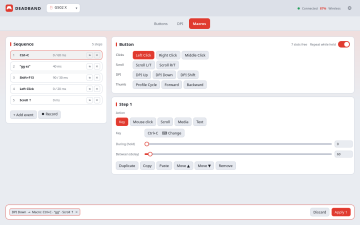
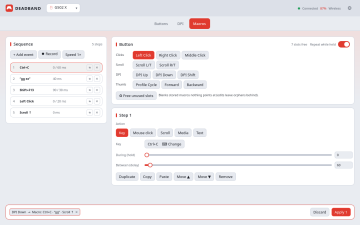
mouse: per-macro playback speed multiplier
Hardware testing found recorded macros play back slightly slower than they
were typed. Our capture is faithful -- measured milliseconds go straight into
the delay opcode with no padding or minimum -- so the extra time is the
mouse's own macro engine, which spends a little time per step (~4 steps per
typed character, so it compounds over a sentence).

Adds a per-macro speed multiplier (0.25x-4x, cycled from a pill on the Macros
tab) that divides every hold and delay at build time. Captured timings are
never modified, so it's reversible. 1.0x or absent produces a byte-identical
body, leaving existing macros alone and preserving the identical-skip path. A
nonzero wait never scales to 0 -- a hold that became an instant press+release
can go unseen by the target app. Out-of-range values are rejected at stage
time, where the editor already validates by building.

README art regenerated for the new layout.

diff --git a/qml/App/MouseMacrosPage.qml b/qml/App/MouseMacrosPage.qml
@@ -16,8 +16,17 @@ Item {
     property int btn: -1
     property var steps: []
     property bool repeat: false
+    property real speed: 1.0        // playback multiplier, higher = faster
     property int sel: -1
     property var clip: null
+
+    readonly property var speedSteps: [0.5, 0.75, 1.0, 1.25, 1.5, 2.0]
+    function speedLabel(v) { return (Math.round(v * 100) / 100) + "\u00d7" }
+    function cycleSpeed() {
+        var i = page.speedSteps.indexOf(page.speed)
+        page.speed = page.speedSteps[(i < 0 ? 2 : i + 1) % page.speedSteps.length]
+        page.touch()
+    }
 
     readonly property var clickNames: ({ 1: "Left Click", 2: "Right Click", 3: "Middle Click", 4: "Back", 5: "Forward" })
     readonly property bool committedMacro: page.btn >= 0 && mouse.bindings[String(page.btn)] === "Macro"
@@ -29,6 +38,7 @@ Item {
         var m = page.btn >= 0 ? mouse.stagedMacro(page.btn) : ({})
         page.steps = (m && m.steps) ? m.steps.map(function (s) { return Object.assign({}, s) }) : []
         page.repeat = m && m.repeat === true
+        page.speed = (m && m.speed) ? m.speed : 1.0
         page.sel = page.steps.length ? 0 : -1
     }
     Component.onCompleted: {
@@ -43,7 +53,8 @@ Item {
     function restage() {
         if (page.btn < 0) return
         if (page.steps.length)
-            mouse.stageMacro(page.btn, JSON.stringify({ steps: page.steps, repeat: page.repeat }))
+            mouse.stageMacro(page.btn, JSON.stringify({ steps: page.steps, repeat: page.repeat,
+                                                        speed: page.speed }))
         else
             mouse.unstageItem("macro:" + page.btn)
     }
@@ -209,6 +220,11 @@ Item {
                         width: parent.width; spacing: 6; bottomPadding: 2
                         PillButton { label: "+ Add event"; onClicked: page.addEvent() }
                         PillButton { label: "⏺ Record"; highlight: page.recording; onClicked: page.startRecord() }
+                        PillButton {
+                            label: "Speed " + page.speedLabel(page.speed)
+                            highlight: page.speed !== 1.0
+                            onClicked: page.cycleSpeed()
+                        }
                     }
                     Text {
                         visible: page.steps.length === 0

diff --git a/vendors/logitech/config.py b/vendors/logitech/config.py
@@ -80,6 +80,32 @@ def _ms(v):
     return max(0, min(0xFFFF, int(v or 0)))
 
 
+def _speed(macrodef):
+    """Playback speed multiplier, higher = faster: every hold/delay is divided by it.
+    The mouse's macro engine spends a little time per step, so a recorded macro plays
+    back slightly slower than it was typed; this dials that out without touching the
+    captured timings. Absent or 1.0 leaves the body byte-identical, so existing
+    macros are unaffected (and still hit the identical-skip path)."""
+    if not isinstance(macrodef, dict) or macrodef.get('speed') in (None, ''):
+        return 1.0
+    try:
+        sp = float(macrodef['speed'])
+    except (TypeError, ValueError):
+        raise ValueError('macro "speed" must be a number')
+    if not 0.25 <= sp <= 4.0:
+        raise ValueError(f'macro speed {sp}x is out of range (0.25x-4x)')
+    return sp
+
+
+def _ms_at(v, speed):
+    """A timing field scaled by `speed`. A nonzero wait never scales away to 0 — a
+    key hold that becomes an instant press+release can go unseen by the target app."""
+    ms = _ms(v)
+    if ms and speed != 1.0:
+        ms = max(1, min(0xFFFF, int(round(ms / speed))))
+    return ms
+
+
 def build_macro_body(macrodef):
     """Structured macro def -> macro bytecode (terminated with END). A key/click step
     emits press, an optional HOLD delay, release, then an optional DELAY-after; text
@@ -87,6 +113,7 @@ def build_macro_body(macrodef):
     step or an empty macro (the def comes from untrusted JSON, so every field error is
     normalized to ValueError for the callers' `except`)."""
     m = macros.Macro()
+    sp = _speed(macrodef)
     n = 0
     for s in _macro_steps(macrodef):
         if not isinstance(s, dict):
@@ -99,13 +126,15 @@ def build_macro_body(macrodef):
                     raise ValueError('key step needs a non-empty "combo" string')
                 mods, key = macros.parse_combo(combo)
                 m.press_key(key, mods)
-                if _ms(s.get('hold')):
-                    m.pause(_ms(s.get('hold')))
+                hold = _ms_at(s.get('hold'), sp)
+                if hold:
+                    m.pause(hold)
                 m.release_key(key, mods)
             elif t == 'click':
                 m.mouse_down(int(s.get('button', 1) or 1))
-                if _ms(s.get('hold')):
-                    m.pause(_ms(s.get('hold')))
+                hold = _ms_at(s.get('hold'), sp)
+                if hold:
+                    m.pause(hold)
                 m.mouse_up(int(s.get('button', 1) or 1))
             elif t == 'scroll':
                 m.scroll(int(s.get('delta', 1) or 1))       # +up / -down (i8)
@@ -123,8 +152,9 @@ def build_macro_body(macrodef):
                 m.type(text)
             else:
                 raise ValueError(f'unknown macro step: {t!r}')
-            if _ms(s.get('delay')):
-                m.pause(_ms(s.get('delay')))
+            after = _ms_at(s.get('delay'), sp)
+            if after:
+                m.pause(after)
         except (KeyError, TypeError, AttributeError) as e:
             raise ValueError(f'bad macro step {t!r}: {e}')
         n += 1

diff --git a/mouse_bridge.py b/mouse_bridge.py
@@ -346,8 +346,9 @@ class MouseBridge(QObject):
 
     @Slot(int, result='QVariantMap')
     def stagedMacro(self, button):
-        """The staged macro def for a button ({'steps':[...],'repeat':bool}), or an
-        empty map — lets the macros tab resume editing a macro already in the queue."""
+        """The staged macro def for a button ({'steps':[...], 'repeat':bool,
+        'speed':float}), or an empty map — lets the macros tab resume editing a
+        macro already in the queue."""
         return dict(self._pending_macros.get(int(button), {}))
 
     @Property('QVariantList', constant=True)
@@ -468,8 +469,9 @@ class MouseBridge(QObject):
     @Slot(int, str)
     def stageMacro(self, button, macro_json):
         """Queue a MACRO for `button` (primary bank). `macro_json` is the editor's
-        JSON: {"steps":[...], "repeat":bool}. Validated (built) here so a bad macro
-        is caught before Apply. Supersedes any plain bind staged on this button."""
+        JSON: {"steps":[...], "repeat":bool, "speed":float}. Validated (built) here
+        so a bad macro is caught before Apply (an out-of-range speed included).
+        Supersedes any plain bind staged on this button."""
         if not (0 <= int(button) < (self._button_count or 16)):
             return                                       # ignore an out-of-range button
         try:
